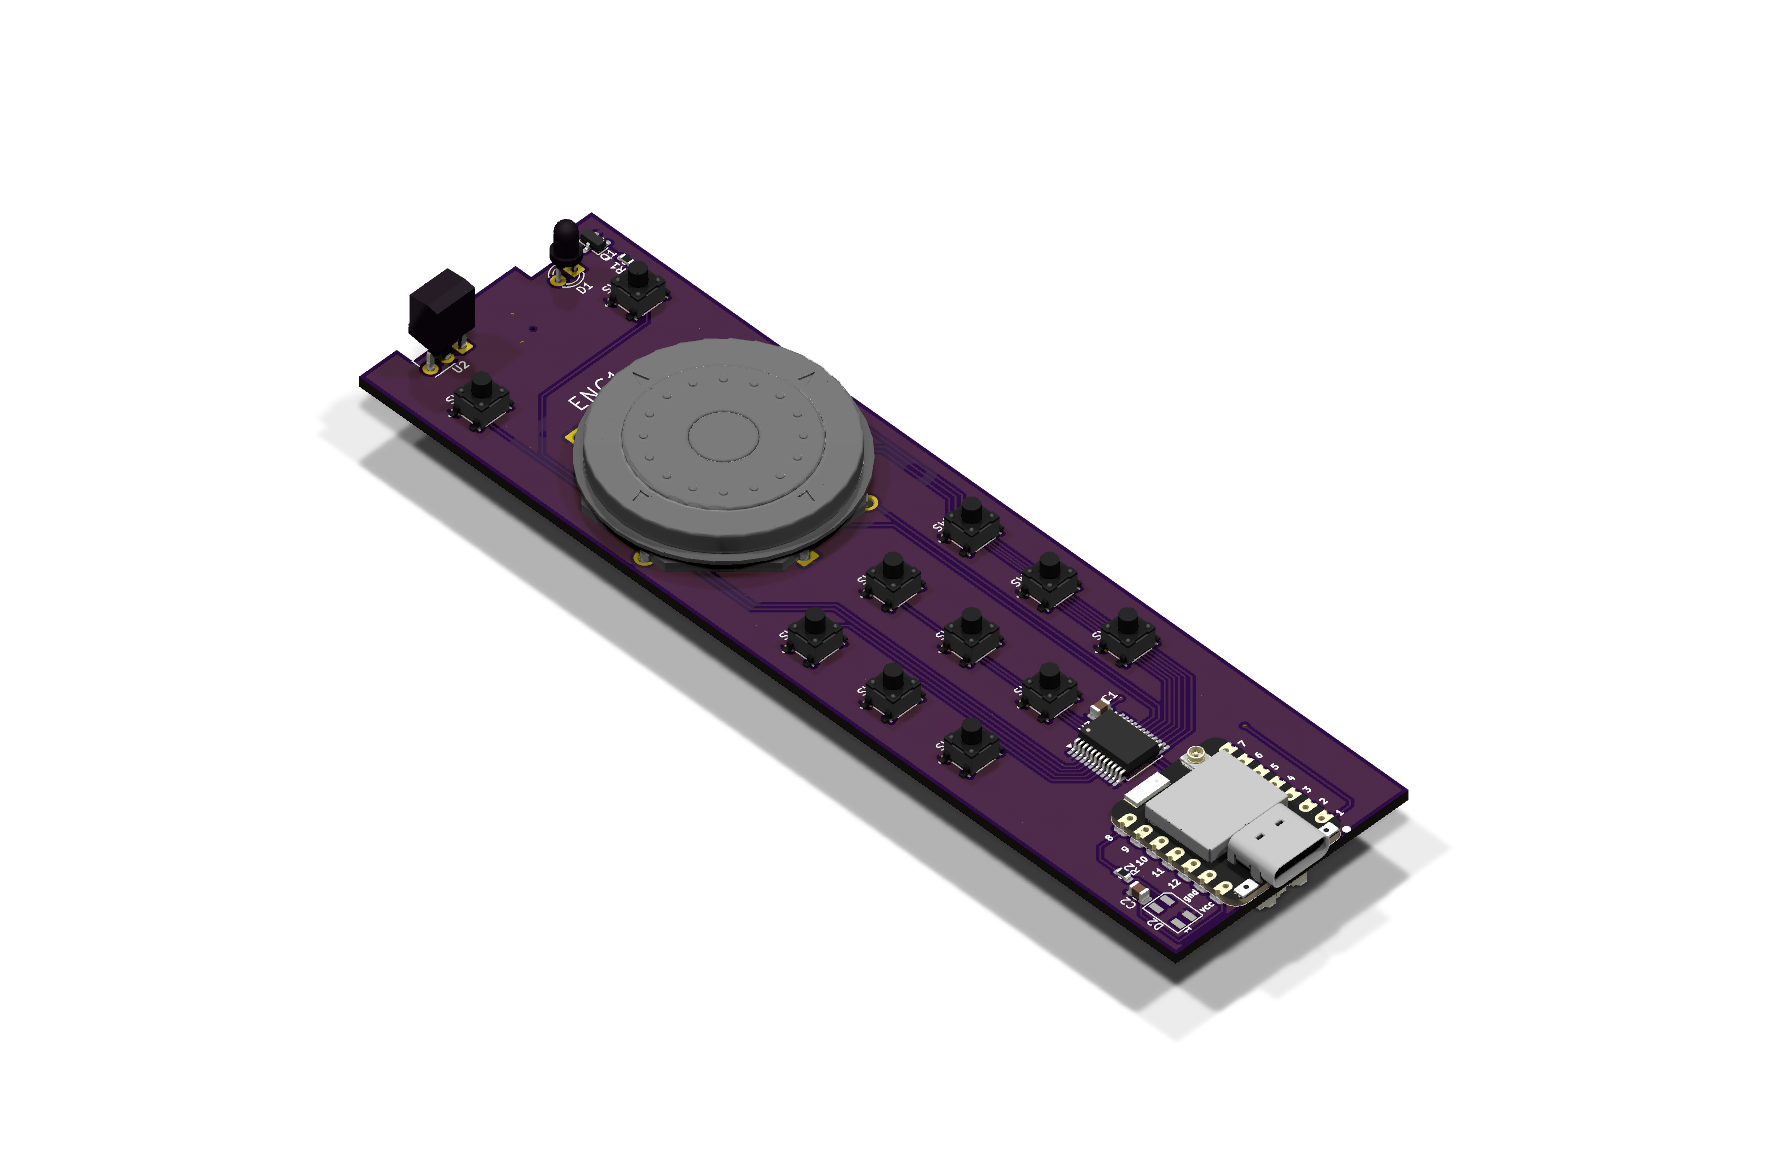
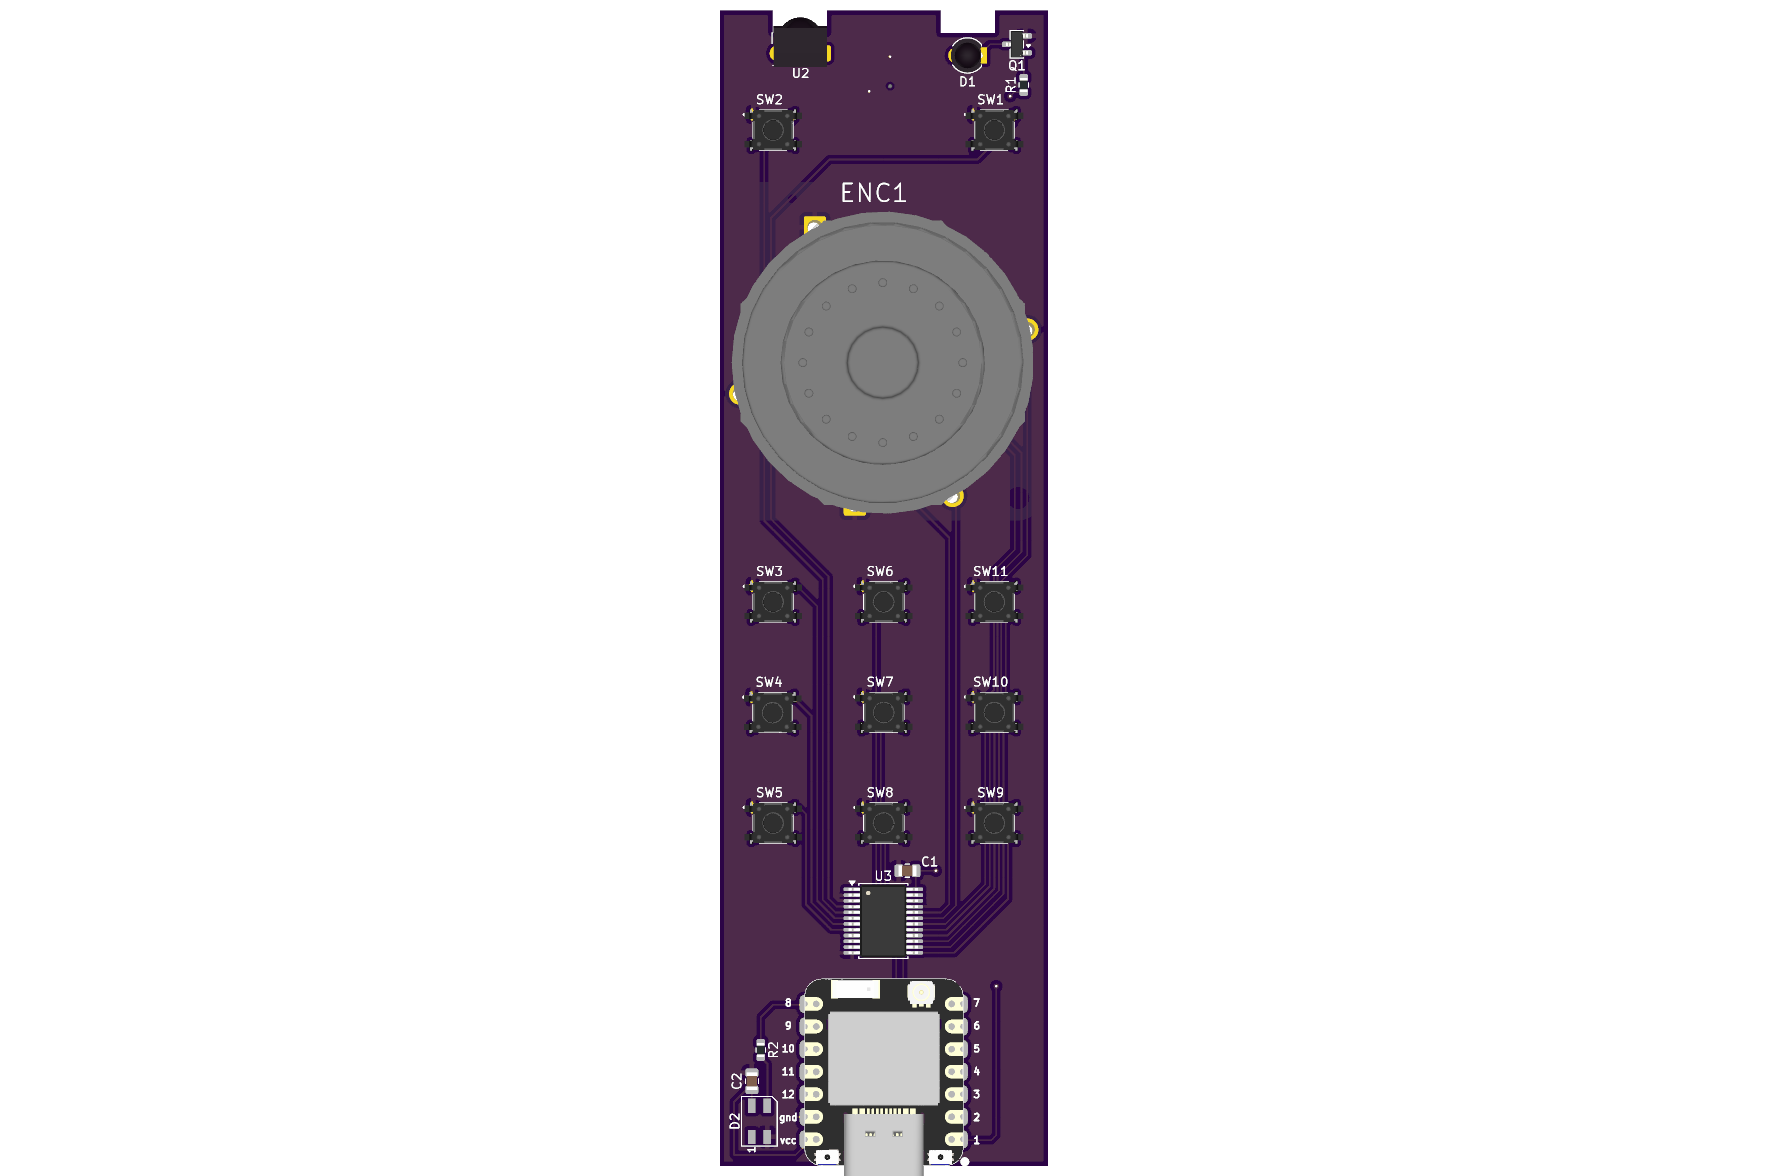
docs(readme): split board preview renders

Changed region(s): [[0.1867, 0.0, 0.8088, 1.0]]

diff --git a/README.md b/README.md
@@ -10,10 +10,18 @@ This repo is the hardware side of that project. The source of truth lives in `c6
 - [Instagram](https://www.instagram.com/homething.io/)
 - [Website](https://homething.io/)
 
+## Board Views
+
 | View | Top | Bottom |
 | --- | --- | --- |
-| 3D | ![3D top preview of current board prototype](docs/readme-assets/board-3d-top.png) | ![3D bottom preview of current board prototype](docs/readme-assets/board-3d-bottom.png) |
+| Basic 3D | ![Basic 3D top preview of current board prototype](docs/readme-assets/board-3d-top.png) | ![Basic 3D bottom preview of current board prototype](docs/readme-assets/board-3d-bottom.png) |
 | Flat SVG | ![Flat top SVG preview of current board prototype](docs/readme-assets/board-flat-top.svg) | ![Flat bottom SVG preview of current board prototype](docs/readme-assets/board-flat-bottom.svg) |
+
+## Raytraced Views
+
+| View | Top | Bottom |
+| --- | --- | --- |
+| High 3D | ![High-quality rotated 3D top preview of current board prototype](docs/readme-assets/board-3d-rotated-top.png) | ![High-quality rotated 3D bottom preview of current board prototype](docs/readme-assets/board-3d-rotated-bottom.png) |
 
 ## Schematic
 